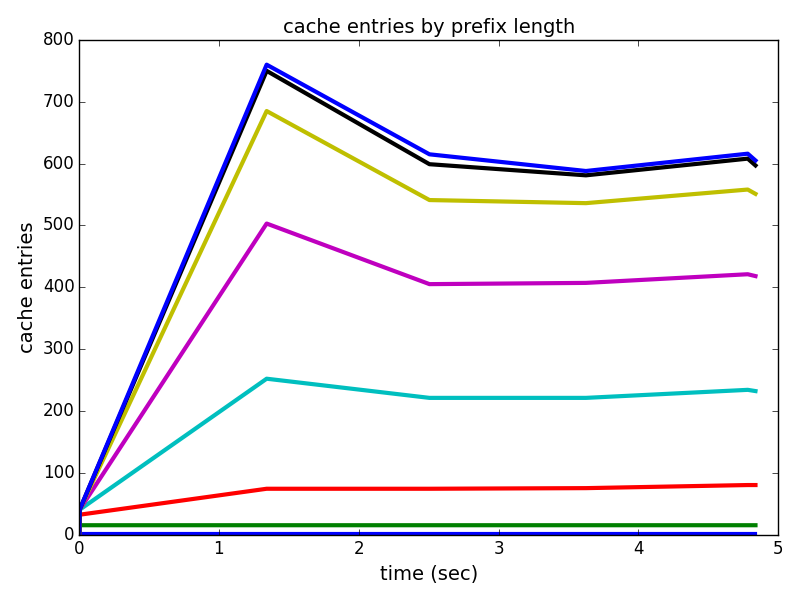
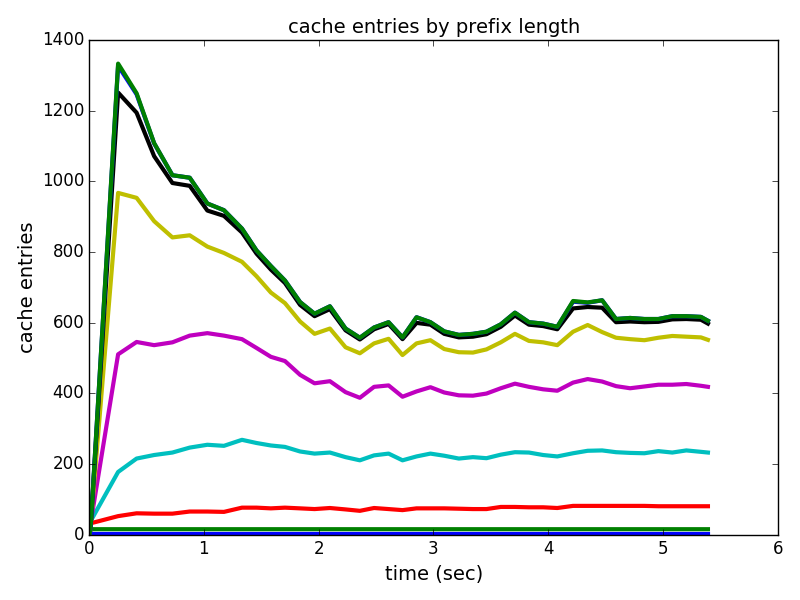
Minor changes

diff --git a/code/serial_priority.py b/code/serial_priority.py
@@ -271,7 +271,7 @@ def bbound(din=os.path.join('..', 'data'), dout=os.path.join('..', 'cache'),
 
         # write a log entry for every 1000 outer loop iterations that reach here
         counter += 1
-        if ((counter % 10000) == 0):
+        if ((counter % 1000) == 0):
             cache.metrics.priority_queue_length = len(priority_queue)
             cache.metrics.seconds = time.time() - tic
             fh.write(cache.metrics.to_string() + '\n')
@@ -357,9 +357,9 @@ def example_adult():
     bbound(din=os.path.join('..', 'data'), dout=os.path.join('..', 'cache'),
            dlog=os.path.join('..', 'logs'), dfigs=os.path.join('..', 'figs'),
            froot='adult_R', warm_start=False, max_accuracy=0., best_prefix=(),
-           min_objective=0.04, c=0.01, min_captured_correct=0.01,
-           max_prefix_length=20, max_cache_size=3000000, delimiter='\t',
-           method='curiosity', seed=0, sample=0.1, quiet=True, clear=True,
+           min_objective=1., c=0.05, min_captured_correct=0.05,
+           max_prefix_length=20, max_cache_size=1000000, delimiter='\t',
+           method='breadth_first', seed=0, sample=0.1, quiet=True, clear=True,
            garbage_collect=True)
     return (metadata, metrics, cache, priority_queue, best, rule_list)
 

diff --git a/code/utils.py b/code/utils.py
@@ -107,12 +107,12 @@ class Metrics:
         else:
             return ','.join([s1, s2])
 
-    def names_to_string(self, granular=False):
+    def names_to_string(self, granular=True):
         names = ['cache_size', 'dead_prefix_start', 'stunted_prefix',
                  'commutes', 'dominates', 'rejects', 'captured_small',
                  'insufficient', 'dead_prefix', 'inferior']
         m = len(self.cache_size)
-        e_names = [expand_names(x, m) for x in names]
+        e_names = [expand_names(x, m) for x in ['cache_size']]
         if granular:
             return ','.join(['seconds', 'min_objective', 'accuracy',
                              'best_prefix', 'priority_queue_length',

diff --git a/code/figs.py b/code/figs.py
@@ -29,7 +29,6 @@ def viz_log(metadata=None, din=None, dout=None, delimiter=',', lw=3, fs=14):
     plt.title('accuracy', fontsize=fs)
 
     plt.subplot(3, 5, 3)
-    print x['best_prefix']
     plt.plot(t, [len([q for q in str(p).strip(';').split(';') if q]) for p in x['best_prefix']], '-', linewidth=lw)
     plt.title('prefix length', fontsize=fs)
 

diff --git a/README.md b/README.md
@@ -267,7 +267,11 @@ as informed by a hash map `cdict` that maps each rule `R_i` to a set of rules
 When growing a prefix that ends with rule `R_i`, we only append a rule `R_j` if
 it is **not** in `S_i`.
 
-For `adult`, `cdict` maps each rule to a set that on average has 25 rules.
+For `tdata`, `cdict` maps each rule to a set that on average has 59 rules
+(15% of 377 total).
+
+For `adult`, `cdict` maps each rule to a set that on average has 25 rules
+(8% of 284 total).
 
 #### Relation-aware pruning
 
@@ -285,6 +289,7 @@ Notice that the intersection of `S_i` and `T_i` is the empty set, thus the
 mappings represented by `cdict` and `rdict` can easily be combined into a single
 mapping.
 
+For `tdata`, `rdict` maps each rule to a set that on average has 3 rules.
 For `adult`, `rdict` maps each rule to a set that on average has 2 rules.
 
 #### Symmetry-aware garbage collection
@@ -801,6 +806,10 @@ If `c > 0`, don't add prefix to priority queue or cache if
 `c * (len(prefix) + 1) >= min_objective`.
 
 ## todo
+
+Curiosity doesn't seem to be helping `adult` with `c = 0.01` find the best
+prefix of length 3, compared to `objective` and `breadth_first`.
+Run `breadth_first` on all prefixes of at least length 4.
 
 Conditional commutativity?
 
